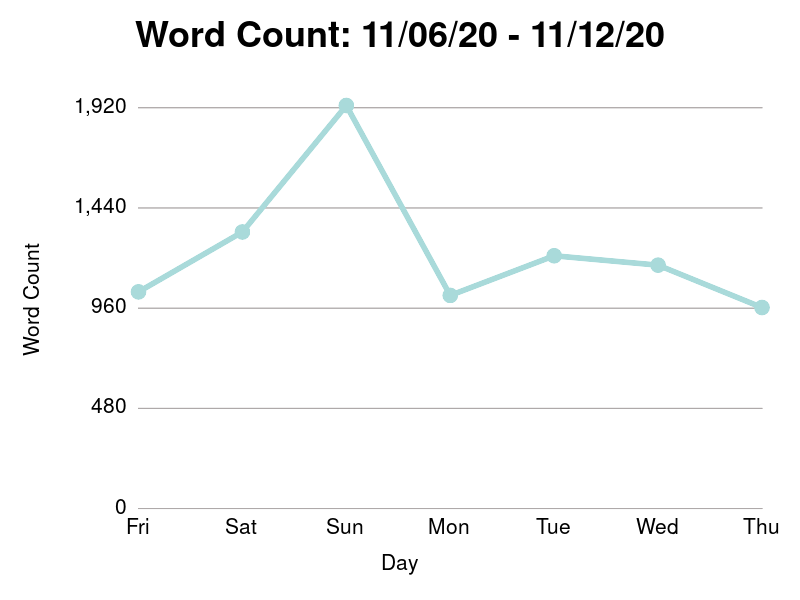
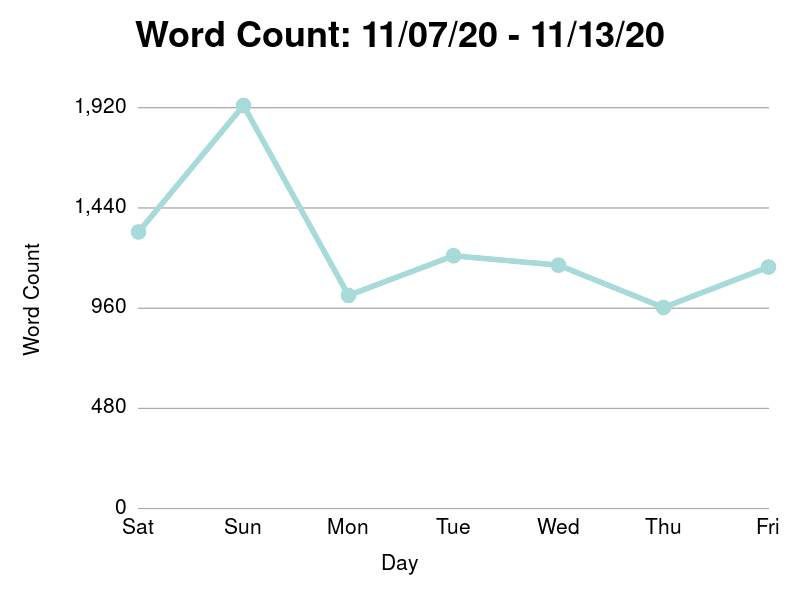
entry: sugary cereals and rodney time

diff --git a/entries/2020-11-13.md b/entries/2020-11-13.md
@@ -1,0 +1,146 @@
+---
+title: sugary cereals and rodney time
+banner: 2020-11-13.jpg
+---
+
+Dear Journal,
+
+Happy Friday, everyone.  How's it going today?  It's a beautiful day
+today.  After sleeping in, I had the honor of pouring Rodney the first
+bowl of Cinnamon Toast Crunch he's ever tasted in his life.  After
+taking his first bite, Rodney's eyes widened.  He hurriedly shoveled
+three more bites into his mouth.  I helped myself to a bowl of Fruit
+Loops with coffee.  We would gather around the lunch table a few hours
+later for lunch and story time.  Rodney, still fired up about his bowl
+of Cinnamon Toast Crunch, recounted to his cousins how life changing
+the sugary cinnamon cereal was.
+
+"I ordering groceries, and I just kind of had an impulse," I explained
+to Kelly over Zoom.  "We didn't have enough junk food in the house."
+
+"I think it's because we were cereal repressed," laughed Kelly.  "I do
+the same thing now, I love having Fruit Loops and Cocoa Puffs in the
+house."
+
+When we were kids, cereal like Fruit Loops Cocoa Puffs were a
+forbidden pleasure.  Our parents stuck to Cheerios, hearty wheat
+cereals, and the less satisfying Trader Joe's knock-offs like "Gorilla
+Crunch".  If I wanted to partake in the good stuff, it had to be at a
+sleep over or at summer camp.
+
+The first month at college, I bought several boxes of Cookie Crisp.
+Of all the sugary cereals I had to wait to try, Cookie Crisp was
+probably the biggest disappointment.  The "cookies for breakfast"
+cereal held up its promise of giving you a spoonful of cookies in
+every bite, but nobody ever said anything about how those jagged,
+flavorless cookies would cut up the roof of your mouth.
+
+Cinnamon Toast Crunch, Fruit Loops, and Apple Jacks - the boxes we
+have in the house now, are probably my personal pillars of sugary
+cereals.  Why the lack of chocolate, you ask?  Well half the fun of
+eating cereal is watching your dogs scamper after the spare pieces you
+toss across the kitchen floor, and you can't do that with chocolate
+cereal.
+
+_Sip_.  Do you have a favorite cereal?  And how is the end of your
+week so far?  The house is quiet.  Marissa crashed on the sofa for a
+well-deserved nap.  She stayed up until three in the morning setting
+up her online gallery shop.  I tried to stay up with her to keep her
+company, but I only made it until about 1.  I feel asleep on the couch
+watching reruns of _Whose Line Is It Anyway_.
+
+We had a great day yesterday.  Yesterday we had a sort of breakthrough
+with a tough parenting dilemma.  This week, we decided to confront
+Rodney's bad habit of eating slowly at the dinner table.
+
+Rodney has pretty much always been reluctant to eat anything outside
+his candy and mac 'n cheese comfort zone.  He eventually eats most
+foods, but only if either Marissa or myself sacrifices our own
+mealtime enjoyment to vigilantly remind Rodney to take more bites and
+chew every five minutes.  If left to himself, Rodney will talk, tell
+stories, look around the room, and stare out the window until his
+bedtime.
+
+The other night, Rondey had remained at the table for an hour and a
+half.  His mashed potatoes were untouched.  He hadn't even broken the
+surface tension of the little pool of gravy.  In a fury, I sent him up
+to his room.  Marissa and I recused ourselves to the kitchen to talk
+it over.
+
+"I did some reading, and I don't like the blogs with this one," said
+Marissa.
+
+"I know what you mean," I replied.  "This is one of those things where
+we already know what kind of behavior we want.  We just need to figure
+out how to get him there."
+
+Marissa and I stared blankly at the kitchen floor.  I kicked a dog toy
+from under my feet.
+
+"What about incentives?" she said.  "We can keep a couple of those
+marshmallows he likes next to his plate.  And if he finishes his
+dinner, he can eat the marshmallow.  Otherwise it gets taken away."
+
+I leaned on the kitchen counter in thought.  "I'm not sure about
+that," I said.  "He should look forward to dinner.  We make food that
+he likes.  Why does he need an extra treat on top of it?"
+
+"I just don't think that's realistic," said Marissa.  "He's a kid.  He
+hates sitting still and he doesn't get excited about food."
+
+"Can we find some other incentive though?" I asked.  "I guess I just
+don't like the idea of incentivizing him to eat food with junk food.
+It feels like a desecration of the behavior we're looking for.  That'd
+be like giving him five bucks every time he does something selfless."
+
+"What do you think we should use?" asked Marissa.
+
+We stared at each other in silence.  After shuffling my feet around
+and putting some dishes away, I piped up with another idea.
+
+"Rodney likes to run things," I said.  "He likes telling us what to
+do, and he likes it when we're all engaged.  What if _that's_ the
+prize."
+
+"So like _Rodney Time_?," said Marissa.
+
+"Yeah," I said.  "_Rodney Time_.  It can be after dinner.  He chooses
+what we do, and he runs the show."
+
+We quietly made our way upstairs, slipping through the hallway into
+our bedroom.  Rodney was quietly whimpering in his room.  Once we were
+seated, we called Rodney into our room.
+
+Rodney stood meekly between us.  He said he was sorry and we exchanged
+hugs.  We made him take a seat so we could explain the rules.
+
+"Each time you finish your food on time," said Marissa.  "You get _Rodney
+Time_."
+
+"And _Rodney Time_ is whatever you want us all to do," I chimed in.
+"We can play a game at the table.  We can play with your toys.  We can
+swordfight, or watch trick shot videos on the couch with you."
+
+"So eat fast?  Rodney Time.  Eat slow and screw around?  No Rodney
+time," said Marissa, tying everything together.  "Got it?"
+
+Rodney nodded, and scampered off to bed.  The next day we sat down at
+the table for dinner, Marissa brought a timer.
+
+"You have thirty minutes to eat your stew," she said.  "Remember,
+_Rodney Time_ is at stake."
+
+Rodney powered through his dinner.  We still caught him staring off
+into space a few times, but the promise of _Rodney Time_ seemed to
+keep him more anchored to the task at hand.  The timer rang, and
+Rodney dropped his spoon.  I circled the table to inspect his work.
+
+"Eat that piece of shrimp, then you're good," I said.  "Then we can
+have Rodney Time."
+
+Rodney raised his hands in victory.  We cheered.  For Rodney Time, he
+chose a regular game of Jenga at the table.  Putting him to bed last
+night, Rodney filled my ear with ideas and plans for the next _Rodney
+Time_.
+
+Thanks for stopping by today.  Have a great weekend everyone.
